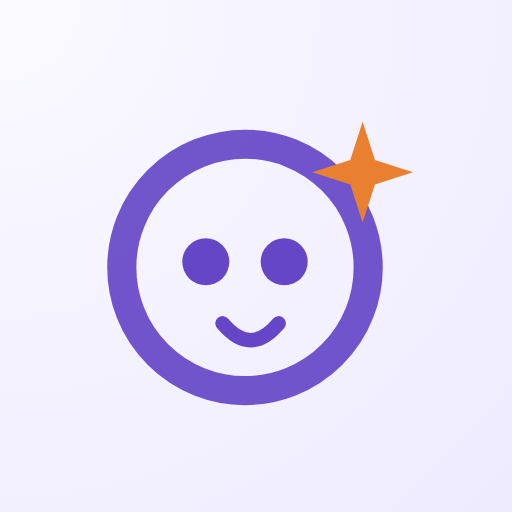
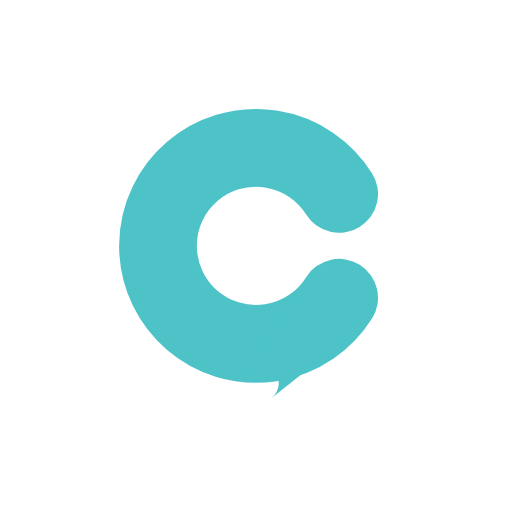
Заменить логотип приложения на мятную букву «С»
Экран входа, favicon, apple-touch-icon, icon-192/512 и компактная
иконка вкладки «Севчик» в нижней навигации теперь используют новый
SVG-логотип (кольцо + хвостик диалогового облачка) вместо маскота
Севчика со звездой. Контакты/Звонки/Чаты не тронуты.

Claude-Session: https://claude.ai/code/session_01GuMN184WxYeM1aPCh1vmfx

Changed region(s): [[0.1875, 0.1875, 0.8125, 0.8125]]

diff --git a/src/components/Navigation.tsx b/src/components/Navigation.tsx
@@ -1,13 +1,15 @@
 import { useEffect, useState } from 'react';
 import { motion } from 'framer-motion';
 import { MessageCircle, Users, Phone, User } from 'lucide-react';
-// Иконки только для нижней (мобильной) навигации — финальный смешанный стиль:
+// Иконки только для нижней (мобильной) навигации — смешанный стиль:
 // там, где иконка = человечек (голова + тело), голова залита сплошным цветом,
-// тело/линии — тонким контуром (Контакты, Севчик — кастомные компоненты из
+// тело/линии — тонким контуром (Контакты — кастомный компонент из
 // TabBarIcons.tsx: контур weight="regular" + голова из weight="duotone", оба —
 // точные path из библиотеки, см. файл). Там, где иконка = один символ без
 // отдельной "головы" (трубка, облачко) — залита целиком, чтобы по плотности
-// не выбивалась из общего ряда.
+// не выбивалась из общего ряда. Севчик — компактная версия логотипа-буквы
+// «С» (SevchikCIcon в TabBarIcons.tsx, без хвостика облачка — не читается на
+// таком размере), обводка через currentColor вместо заливки.
 // PhoneCall (Phosphor, weight="fill") — тот же силуэт трубки, что и Phone, но
 // с волнами сбоку (эффект "звонок идёт") — часть самого SVG-глифа иконки, не
 // отдельный элемент; на weight="fill" волны заливаются тем же цветом, что и
@@ -21,7 +23,7 @@ import { MessageCircle, Users, Phone, User } from 'lucide-react';
 // Остальные иконки в приложении (сайдбар, карточки, кнопки) специально не
 // трогали — задача касалась только нижней панели.
 import { PhoneCall, type Icon as PhosphorIcon } from '@phosphor-icons/react';
-import { ContactsHybridIcon, SevchikHybridIcon, ChatsHeroIcon } from './TabBarIcons';
+import { ContactsHybridIcon, SevchikCIcon, ChatsHeroIcon } from './TabBarIcons';
 import { QLogo } from './QLogo';
 import { useChatStore } from '@/store/chatStore';
 import type { Screen } from '@/data/mock';
@@ -108,7 +110,7 @@ export function TabBar({ current, onNavigate }: TabBarProps) {
     { key: 'contacts', label: 'Контакты', icon: ContactsHybridIcon as unknown as PhosphorIcon },
     { key: 'calls', label: 'Звонки', icon: PhoneCall },
     { key: 'chats', label: 'Чаты', icon: ChatsHeroIcon as unknown as PhosphorIcon },
-    { key: 'profile', label: 'Севчик', icon: SevchikHybridIcon as unknown as PhosphorIcon },
+    { key: 'profile', label: 'Севчик', icon: SevchikCIcon as unknown as PhosphorIcon },
   ];
 
   // Суммарный бейдж непрочитанных на вкладке «Чаты» — то же число и тот же

diff --git a/src/components/TabBarIcons.tsx b/src/components/TabBarIcons.tsx
@@ -34,13 +34,22 @@ function HybridIcon({ size = 24, weight, outline, heads, ...props }: HybridIconP
 
 const CONTACTS_OUTLINE = "M244.8,150.4a8,8,0,0,1-11.2-1.6A51.6,51.6,0,0,0,192,128a8,8,0,0,1-7.37-4.89,8,8,0,0,1,0-6.22A8,8,0,0,1,192,112a24,24,0,1,0-23.24-30,8,8,0,1,1-15.5-4A40,40,0,1,1,219,117.51a67.94,67.94,0,0,1,27.43,21.68A8,8,0,0,1,244.8,150.4ZM190.92,212a8,8,0,1,1-13.84,8,57,57,0,0,0-98.16,0,8,8,0,1,1-13.84-8,72.06,72.06,0,0,1,33.74-29.92,48,48,0,1,1,58.36,0A72.06,72.06,0,0,1,190.92,212ZM128,176a32,32,0,1,0-32-32A32,32,0,0,0,128,176ZM72,120a8,8,0,0,0-8-8A24,24,0,1,1,87.24,82a8,8,0,1,0,15.5-4A40,40,0,1,0,37,117.51,67.94,67.94,0,0,0,9.6,139.19a8,8,0,1,0,12.8,9.61A51.6,51.6,0,0,1,64,128,8,8,0,0,0,72,120Z";
 const CONTACTS_HEADS = "M168,144a40,40,0,1,1-40-40A40,40,0,0,1,168,144ZM64,56A32,32,0,1,0,96,88,32,32,0,0,0,64,56Zm128,0a32,32,0,1,0,32,32A32,32,0,0,0,192,56Z";
-const SEVCHIK_OUTLINE = "M230.92,212c-15.23-26.33-38.7-45.21-66.09-54.16a72,72,0,1,0-73.66,0C63.78,166.78,40.31,185.66,25.08,212a8,8,0,1,0,13.85,8c18.84-32.56,52.14-52,89.07-52s70.23,19.44,89.07,52a8,8,0,1,0,13.85-8ZM72,96a56,56,0,1,1,56,56A56.06,56.06,0,0,1,72,96Z";
-const SEVCHIK_HEADS = "M192,96a64,64,0,1,1-64-64A64,64,0,0,1,192,96Z";
-
 export function ContactsHybridIcon(props: HybridIconProps) {
   return <HybridIcon outline={CONTACTS_OUTLINE} heads={CONTACTS_HEADS} {...props} />;
 }
 
-export function SevchikHybridIcon(props: HybridIconProps) {
-  return <HybridIcon outline={SEVCHIK_OUTLINE} heads={SEVCHIK_HEADS} {...props} />;
+// Компактная версия логотипа-буквы «С» (см. CLogo.tsx) для вкладки «Севчик» —
+// без хвостика диалогового облачка: на 24-28px он превращается в нечитаемое
+// пятно, поэтому здесь только само кольцо. Обводка через currentColor — цвет
+// (мятный активный / серый неактивный) задаёт style на самом <Icon>, как и у
+// остальных трёх вкладок.
+const SEVCHIK_C_RING = 'M149.2,124.7 A58,58 0 1,1 149.2,63.3';
+
+export function SevchikCIcon({ size = 24, weight, ...props }: HybridIconProps) {
+  void weight;
+  return (
+    <svg xmlns="http://www.w3.org/2000/svg" width={size} height={size} viewBox="0 0 200 200" fill="none" {...props}>
+      <path d={SEVCHIK_C_RING} stroke="currentColor" strokeWidth={46} strokeLinecap="round" />
+    </svg>
+  );
 }

diff --git a/src/components/CLogo.tsx b/src/components/CLogo.tsx
@@ -1,0 +1,42 @@
+interface CLogoProps {
+  size?: number;
+  /** Хвостик диалогового облачка снизу буквы «С». По умолчанию включён; на очень
+   * маленьких размерах (иконка нижней навигации) он не читается — там передаётся false. */
+  tail?: boolean;
+  color?: string;
+  className?: string;
+  style?: React.CSSProperties;
+}
+
+const MINT = '#4DC3C8';
+
+// Кольцо буквы «С»: толстая дуга (stroke + round linecap) с разрывом справа.
+const RING_PATH = 'M149.2,124.7 A58,58 0 1,1 149.2,63.3';
+// Хвостик: капсула по касательным между кругом у нижнего конца дуги (радиус
+// половины толщины кольца) и маленьким кругом-остриём — даёт гладкое сужение
+// без швов, а не отдельные наложенные кружки.
+const TAIL_PATH =
+  'M 135.11,106.52 L 93.26,169.30 A 11,11 0 1,1 109.21,184.02 L 168.45,137.29 A 23,23 0 0,1 135.11,106.52 Z';
+
+/**
+ * Логотип «Севчик»: мятная буква «С» в форме диалогового облачка (с хвостиком).
+ * Векторный (SVG), поэтому остаётся чётким на любом размере — от фавикона до
+ * полноразмерного лого на экране входа.
+ */
+export function CLogo({ size = 64, tail = true, color = MINT, className, style }: CLogoProps) {
+  return (
+    <svg
+      width={size}
+      height={size}
+      viewBox="0 0 200 200"
+      fill="none"
+      className={className}
+      style={style}
+      role="img"
+      aria-label="Севчик"
+    >
+      <path d={RING_PATH} stroke={color} strokeWidth={46} strokeLinecap="round" />
+      {tail && <path d={TAIL_PATH} fill={color} />}
+    </svg>
+  );
+}

diff --git a/index.html b/index.html
@@ -2,12 +2,12 @@
 <html lang="ru">
   <head>
     <meta charset="UTF-8" />
-    <link rel="icon" type="image/svg+xml" href="./favicon.svg" />
+    <link rel="icon" type="image/svg+xml" href="./favicon.svg?v=2" />
     <!-- apple-touch-icon (PNG) — официально документированное Apple требование для
          «Добавить на экран Домой»: без него iOS может ставить ярлык как урезанный
          «web clip» вместо полноценного standalone-приложения (берёт скриншот страницы
          вместо иконки), а SVG в качестве apple-touch-icon Safari не поддерживает. -->
-    <link rel="apple-touch-icon" href="./apple-touch-icon.png" />
+    <link rel="apple-touch-icon" href="./apple-touch-icon.png?v=2" />
     <link rel="manifest" href="./manifest.webmanifest" />
     <meta name="viewport" content="width=device-width, initial-scale=1.0, maximum-scale=1.0, user-scalable=no, viewport-fit=cover" />
     <!-- Содержимое подставляется динамически в App.tsx под реально активную тему

diff --git a/src/screens/Login.tsx b/src/screens/Login.tsx
@@ -1,7 +1,7 @@
 import { useState } from 'react';
 import { motion, AnimatePresence } from 'framer-motion';
 import { Mail, Lock, Eye, EyeOff, User, Loader2 } from 'lucide-react';
-import { QLogo } from '@/components/QLogo';
+import { CLogo } from '@/components/CLogo';
 import { supabase } from '@/lib/supabase';
 
 interface AuthProps {
@@ -262,7 +262,7 @@ function AuthLayout({ children, title, subtitle }: { children: React.ReactNode; 
       <motion.div initial={{ opacity: 0, y: 20, scale: 0.95 }} animate={{ opacity: 1, y: 0, scale: 1 }} transition={{ duration: 0.4, ease: [0.22, 1, 0.36, 1] }} className="w-full max-w-md relative z-10">
         <div className="bg-white rounded-[32px] p-8 relative overflow-hidden" style={{ boxShadow: '0 20px 40px rgba(15,23,42,0.1), 0 1px 3px rgba(0,0,0,0.05)' }}>
           <div className="flex flex-col items-center mb-10">
-            <QLogo size={190} animate theme="light" />
+            <CLogo size={190} />
             <h1 className="font-heading font-extrabold text-2xl text-[#1A1A1A] mt-4 tracking-tight">{title}</h1>
             <p className="text-[#585D69] text-sm mt-1 text-center font-body">{subtitle}</p>
           </div>
